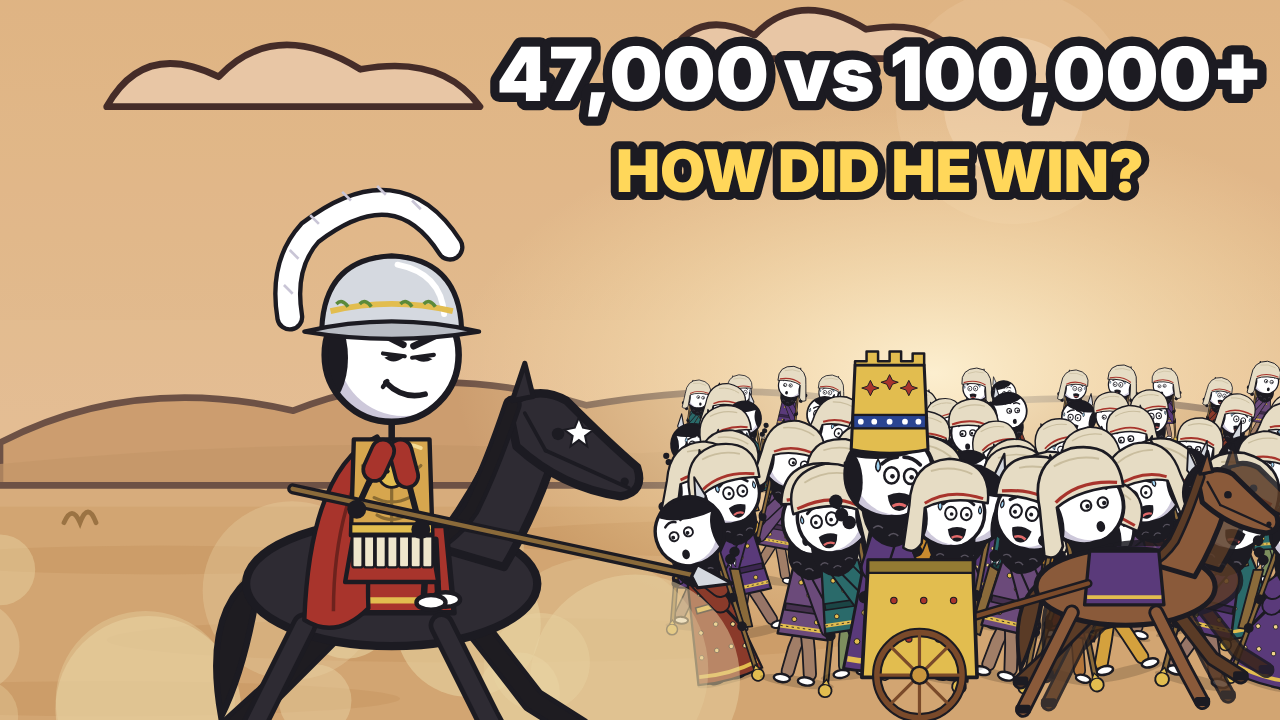
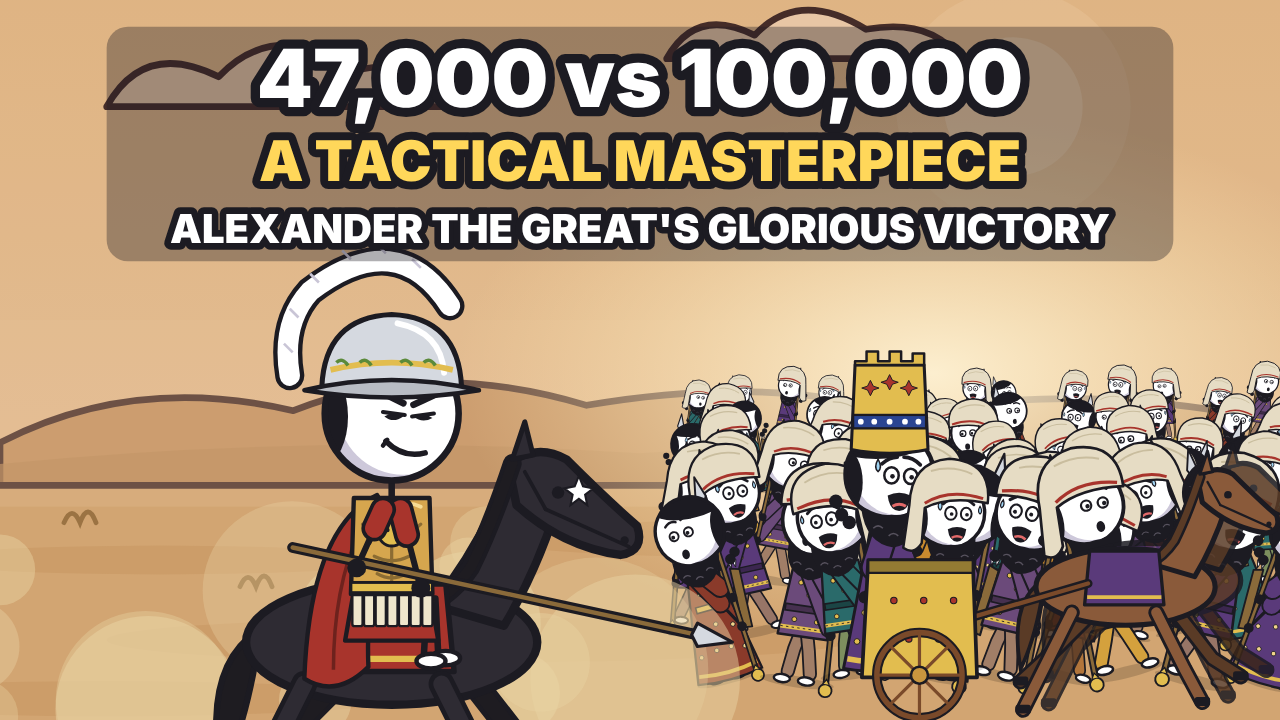
Gaugamela thumbnail: owner's title text
Claude-Session: https://claude.ai/code/session_017MZkjKDMev6tKpnRG7nu5t

diff --git a/episodes/05-gaugamela/thumbnail.js b/episodes/05-gaugamela/thumbnail.js
@@ -1,6 +1,6 @@
 // Thumbnail for episode 5 (1280x720), drawn with the character code in index.html.
 // Usage: node episodes/05-gaugamela/thumbnail.js
-// Idea: "47,000 vs 100,000+": Alexander charging on Bucephalus, a sea of panicking Persians, Darius's golden chariot turning to flee.
+// Idea (owner's wording): "47,000 vs 100,000 / A Tactical Masterpiece / Alexander the Great's Glorious Victory": Alexander charging on Bucephalus, a sea of panicking Persians, Darius's golden chariot turning to flee.
 const fs = require("fs"), path = require("path"), vm = require("vm");
 const { chromium } = require("playwright");
 const root = path.join(__dirname, "../..");
@@ -33,12 +33,14 @@ s += `<ellipse cx="350" cy="170" rx="180" ry="100" fill="url(#flash)"/>`;
 s += ctx.FX.crowd({ side: "per", x0: 250, x1: 486, rows: 6, gBack: 196, gFront: 284, scBack: 0.1, scFront: 0.3, perRow: 9, seed: 21, faces: ["panic", "panic", "surprised"], flee: 0.55, tilt: 18 });
 s += ctx.FX.chariot({ x: 400, g: 300, sc: 0.4, royal: true, blades: false, flip: true, driver: mk({ hair: "persian", hat: "persiancap", outfit: "persian", color: "#2a6a6a", face: "panic" }), passenger: mk({ hair: "persian", hat: "tiara", outfit: "darius", color: "#5a3a7a", face: "panic", flip: true }) });
 s += ctx.FX.dust({ x: 120, y: 300, w: 260, h: 70, opacity: 0.6, seed: 3 });
-s += ctx.FX.horse({ x: 150, g: 330, sc: 0.78, color: "#2e2b33", star: true, gallop: true, flip: true, rider: mk({ hair: "short", hat: "alexhelm", outfit: "alexander", color: "#a8342c", prop: "lance", face: "fierce" }) });
+s += ctx.FX.horse({ x: 150, g: 352, sc: 0.78, color: "#2e2b33", star: true, gallop: true, flip: true, rider: mk({ hair: "short", hat: "alexhelm", outfit: "alexander", color: "#a8342c", prop: "lance", face: "fierce" }) });
 // text
 const T = (x, y, size, fill, txt, sw = 9) =>
   `<text x="${x}" y="${y}" font-family="Inter" font-weight="900" font-size="${size}" text-anchor="middle" fill="${fill}" stroke="#1c1b22" stroke-width="${sw}" paint-order="stroke" stroke-linejoin="round">${txt}</text>`;
-s += T(330, 68, 28, "#ffffff", "47,000 vs 100,000+", 7);
-s += T(330, 102, 22, "#ffd75a", "HOW DID HE WIN?", 6);
+s += `<rect x="40" y="40" width="400" height="88" fill="#1c1b22" opacity="0.35" rx="8"/>`;
+s += T(240, 70, 30, "#ffffff", "47,000 vs 100,000", 7);
+s += T(240, 98, 21, "#ffd75a", "A TACTICAL MASTERPIECE", 6);
+s += T(240, 121, 15, "#ffffff", "ALEXANDER THE GREAT'S GLORIOUS VICTORY", 5);
 s += "</svg>";
 
 (async () => {

diff --git a/episodes/05-gaugamela/youtube.md b/episodes/05-gaugamela/youtube.md
@@ -36,4 +36,4 @@ alexander the great, battle of gaugamela, darius iii, persian empire, macedonia,
 Pure genius, or did Darius beat himself? What do you think won Gaugamela? Tell me below.
 
 ## Thumbnail
-`thumbnail.png`: "47,000 vs 100,000+ / HOW DID HE WIN?" (Alexander on Bucephalus charging, Darius's golden chariot turning to flee).
+`thumbnail.png`: "47,000 vs 100,000 / A TACTICAL MASTERPIECE / ALEXANDER THE GREAT'S GLORIOUS VICTORY" (Alexander on Bucephalus charging, Darius's golden chariot turning to flee).
